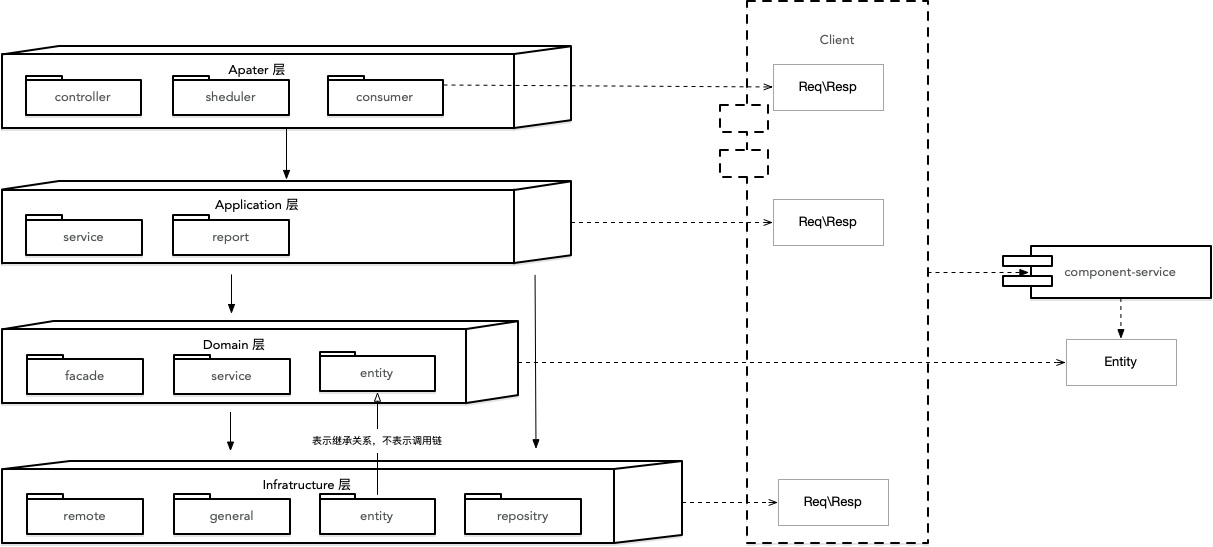
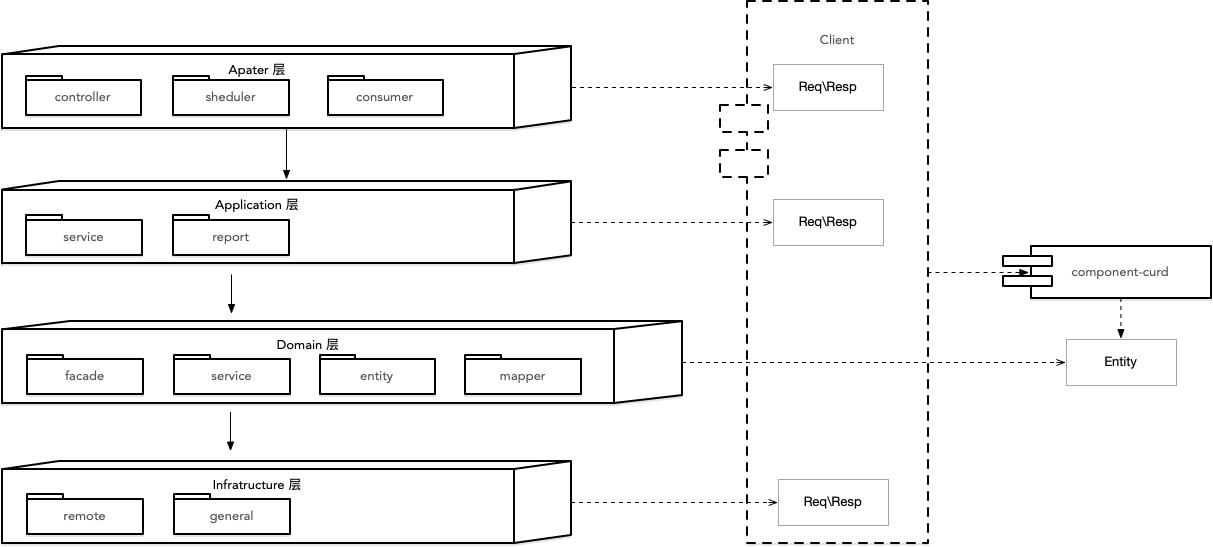
feat(README.md): 优化文档

diff --git a/README.md b/README.md
@@ -2,8 +2,7 @@
 EULA 是 Easy Use and Layered Architecture 的缩写，代表 “易用的分层架构”。
 
 为什么易用？
-- 解决了分层架构中频繁的数据转换操作
-- 提供了通用的 `CURD` 功能，开发人员可以更关注于业务处理
+- 提供了通用的 `CURD` 功能和 Restful 风格的接口，并实现了了 `Dto -> Entity` 的数据转换操作，开发人员可以更关注于业务处理
 - 通过注解无侵入式统一数据格式
 - 通过注解实现数据安全
 
@@ -12,19 +11,19 @@ EULA 是 Easy Use and Layered Architecture 的缩写，代表 “易用的分层
 ![分层架构图](./resources/分层架构图.png)
 
 ### 包结构功能描述
-| 层次             | 包名         | 功能                                  | 必须 |
-|----------------|------------|-------------------------------------|----|
-| adapter        | controller | 处理页面请求的 controller                  | 否  |
-| application    | service    | 处理通用的 CURD 请求                       | 是  |
-| domain         | entity     | 领域实体，通常继承 `infrastructure` 层中的持久化实体 | 是  |
-| domain         | service    | 领域服务，当存在需要多领域写协作时，更推荐在此实现           | 否  |
-| domain         | facade     | 上下文映射适配层，当调用外部请求时推荐通过在此进行适配         | 否  |
-| infrastructure | entity     | 持久化实体                               | 否  |
-| infrastructure | repository | 用于数据持久化                             | 否  |
-| infrastructure | remote     | 处理外部请求，建议通过 `domain` 层进行适配          | 否  |
-| infrastructure | general    | 用于存放通用的配置类等                         | 是  |
-| infrastructure | utils      | 用于存放工具类                             | 否  |
-| client         | dto        | 服务对外的 DTO                           | 是  |
+| 层次             | 包名         | 功能                             | 必须 |
+|----------------|------------|--------------------------------|----|
+| adapter        | controller | 处理页面请求的 `controller`           | 否  |
+| adapter        | scheduler  | 处理定时任务                         | 否  |
+| adapter        | consumer   | 消费外部消息                         | 否  |
+| application    | service    | 处理通用的 CURD 请求                  | 是  |
+| domain         | entity     | 领域实体，同时可以作为用于持久化的实体            | 是  |
+| domain         | service    | 领域服务，当存在需要多领域写协作时，更推荐在此实现      | 否  |
+| domain         | mapper     | 数据持久化，相比放置在 `infra` 层减少了很多额外操作 | 否  |
+| domain         | facade     | 上下文映射适配层，当调用外部请求时推荐通过在此进行适配    | 否  |
+| infrastructure | remote     | 处理外部请求，建议通过 `domain` 层进行适配     | 否  |
+| infrastructure | general    | 用于存放通用的配置类和工具类等                | 是  |
+| client         | dto        | 服务对外的 DTO                      | 是  |
 
 ### 默认集成的外部组件
 | 组件名称         | 功能                              |
@@ -35,12 +34,12 @@ EULA 是 Easy Use and Layered Architecture 的缩写，代表 “易用的分层
 | flyway       | 数据迁移工具                          |
 
 ## EULA 组件
-| 组件名称              | 功能                              | 依赖                        |
-|-------------------|---------------------------------|---------------------------|
-| component-dto     | 定义了 DTO 接口类以及分页请求体              | 无                         |
-| component-service | 定义了 Service 抽象类，实现数据转换以及通用 CURD | mybatis-plus、compoent-dto |
-| component-result  | 实现了无侵入式数据格式统一以及错误码管理            | mybatis-plus              |
-| component-openai  | 实现了 api2d（openai 国内代理）的 SDK     | 无                         |
+| 组件名称             | 功能                                | 依赖                        |
+|------------------|-----------------------------------|---------------------------|
+| component-dto    | 定义了 DTO 接口类以及分页请求体                | 无                         |
+| component-curd   | 实现数据转换以及通用 CURD 功能和 Restful 风格的接口 | mybatis-plus、compoent-dto |
+| component-result | 实现了无侵入式数据格式统一以及错误码管理              | mybatis-plus              |
+| component-openai | 实现了 api2d（openai 国内代理）的 SDK       | 无                         |
 
 
 ## 如何使用 EULA
